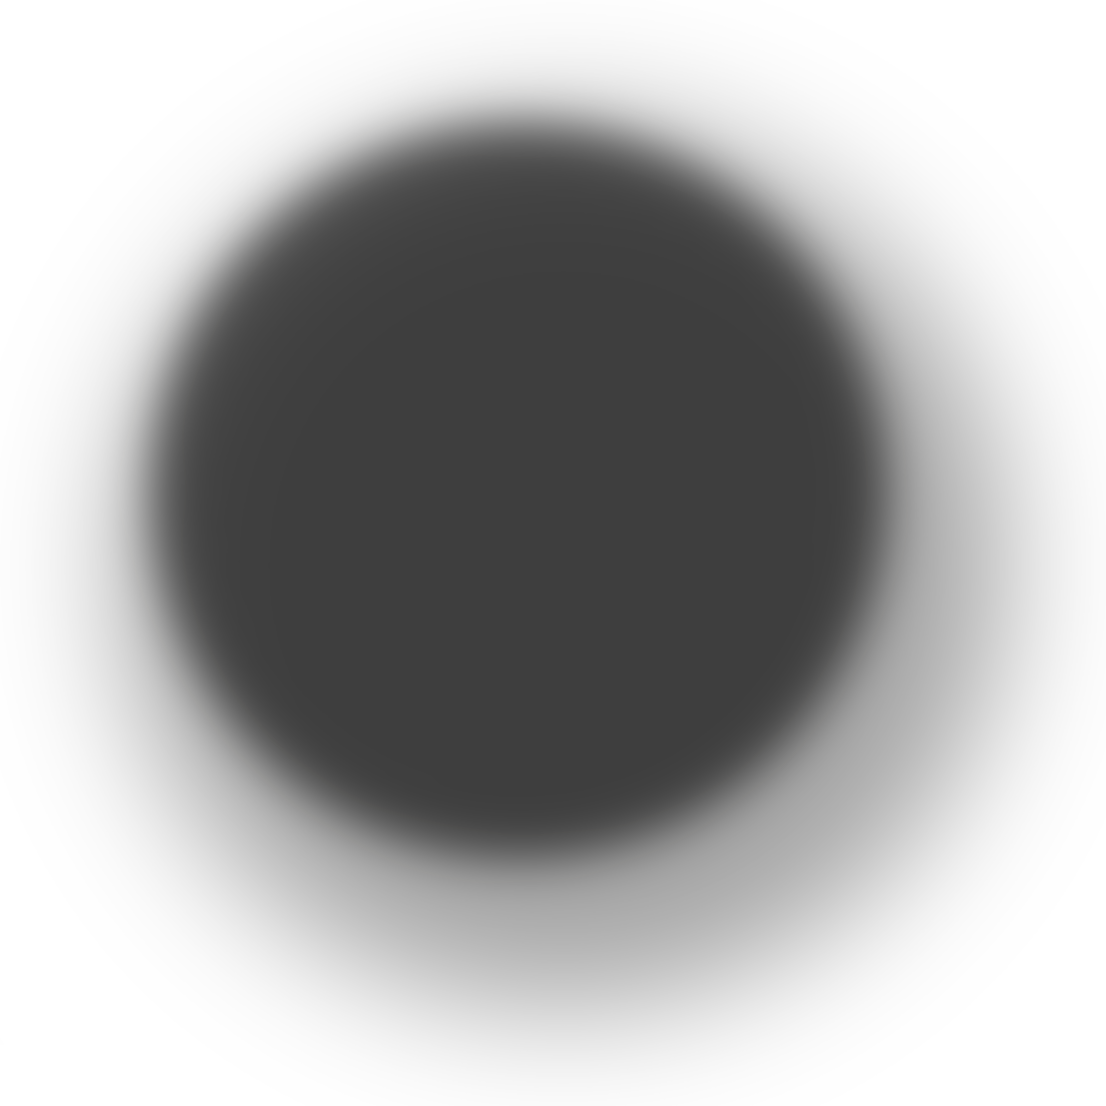
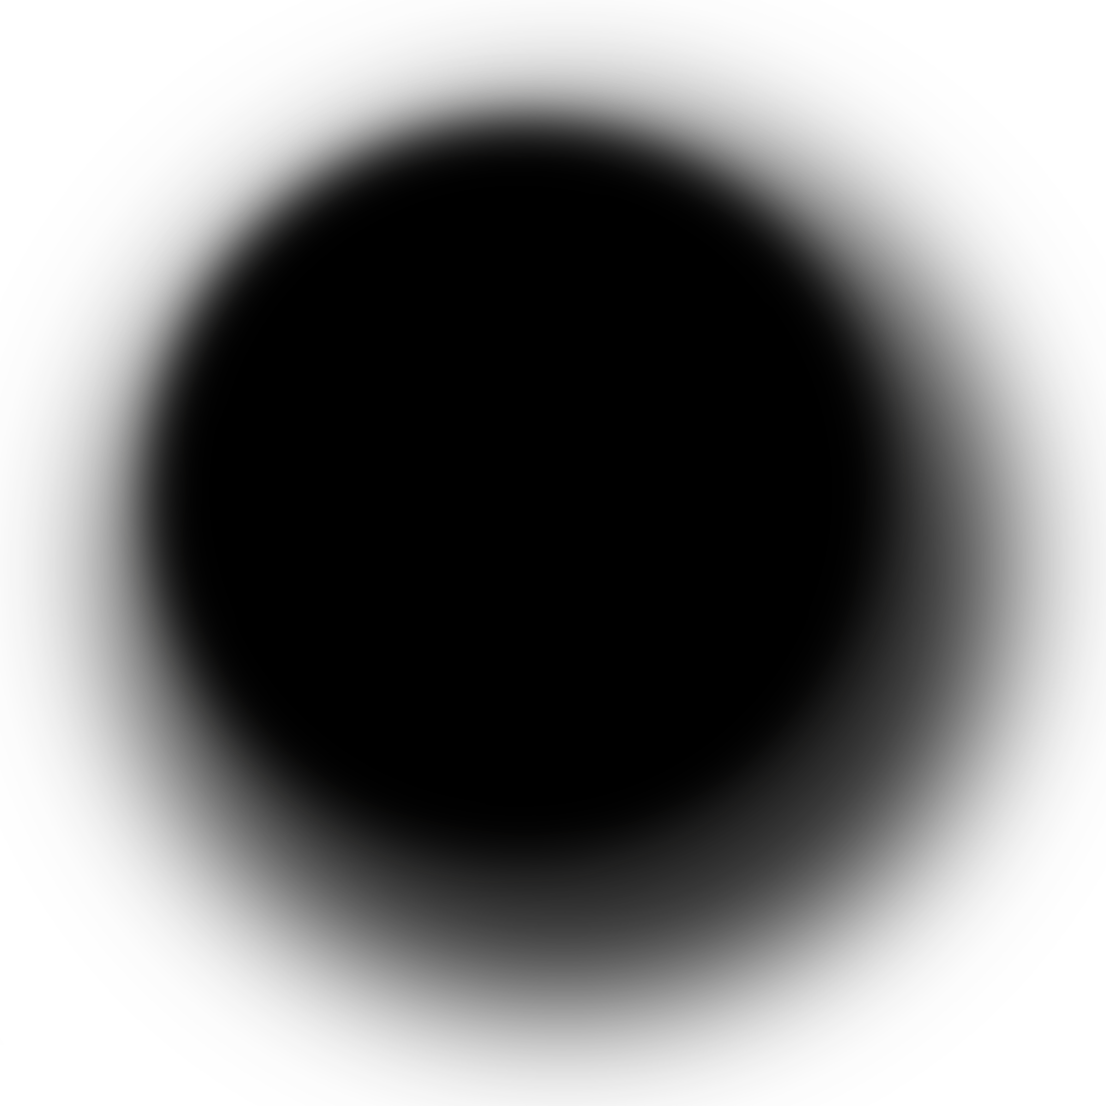
style

diff --git a/js/board.js b/js/board.js
@@ -307,7 +307,7 @@ Board = (function ()
         }
         x = (c[0] + 0.5) * 100 / (this.size + 1)
         y = (c[1] + 0.5) * 100 / (this.size + 1)
-        shd = elem('img',{class:`shadow pos${c[0]}_${c[1]}`,src:'../img/shadow_hard.png',width:'auto',height:`${1.15 * d}%`,style:`left:${x}%; top:${y}%;`,parent:this.shd})
+        shd = elem('img',{class:`shadow pos${c[0]}_${c[1]}`,src:'../img/shadow.png',width:'auto',height:`${1.15 * d}%`,style:`left:${x}%; top:${y}%;`,parent:this.shd})
         return stn = elem('img',{class:`stone pos${c[0]}_${c[1]}`,src:`../img/stone_${cn}.png`,width:'auto',height:`${d}%`,style:`left:${x}%; top:${y}%;`,parent:this.stn})
     }
 

diff --git a/readme.md b/readme.md
@@ -1,3 +1,1 @@
-![go](img/go_clean.png)
 ![go](img/go.png)
-![go](img/go_legend.png)
